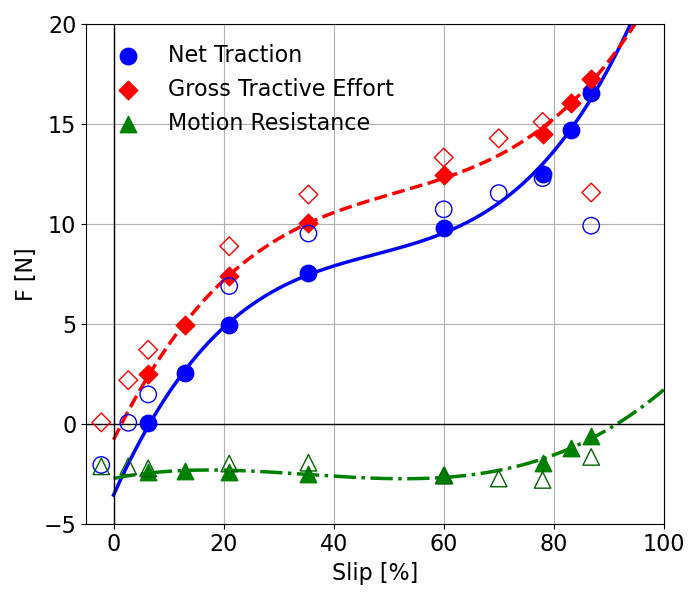
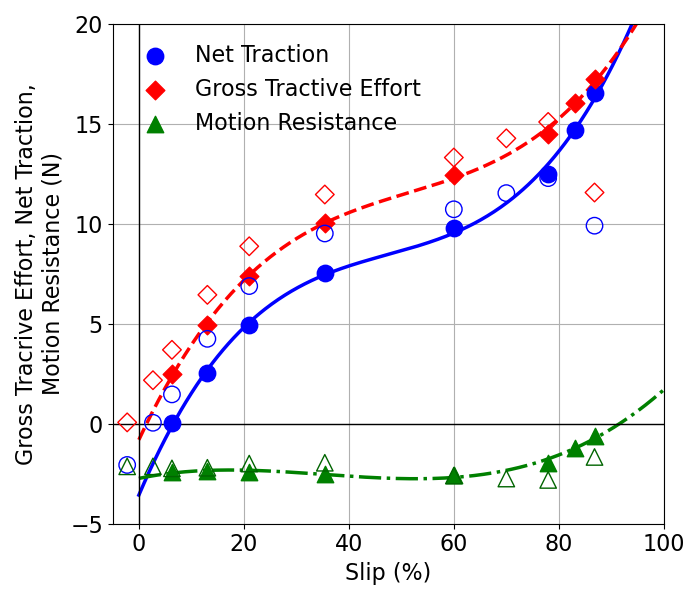
updated examples/Kyoto plot

diff --git a/examples/Kyoto/Fig9.py b/examples/Kyoto/Fig9.py
@@ -6,15 +6,15 @@ import matplotlib.pyplot as plt
 # Load data from text file
 # ------------------------
 # Header must be: x net gross res
-data = np.genfromtxt('fig9ref.txt', names=True)
-datj = np.genfromtxt('fig9here.txt', names=True)
+data = np.genfromtxt('Fig9ref.txt', names=True)
+datj = np.genfromtxt('Fig9here.txt', names=True)
 
-x = data['x']
+x = data['slip']
 y_net  = data['net']
 y_gross = data['gross']
 y_res = data['res']
 
-xj = datj['x']
+xj = datj['slip']
 yj_net  = datj['net']
 yj_gross = datj['gross']
 
@@ -63,8 +63,8 @@ plt.axhline(y=0, color='black', linestyle='-', linewidth=1.0)
 plt.axvline(x=0, color='black', linestyle='-', linewidth=1.0)
 
 # Axes formatting
-plt.xlabel('Slip [%]', fontsize=16)
-plt.ylabel('F [N]', fontsize=16)
+plt.xlabel('Slip (%)', fontsize=16)
+plt.ylabel('Gross Tractive Effort, Net Traction,\nMotion Resistance (N)', fontsize=16)
 plt.xlim(-5, 100)
 plt.ylim(-5, 20)
 plt.xticks([0, 20, 40, 60, 80, 100], fontsize=16)
@@ -74,5 +74,5 @@ plt.legend(loc='upper left', frameon=False, fontsize=16)
 plt.grid(True)
 
 plt.tight_layout()
-plt.savefig("fig9.png")
+plt.savefig("Fig9.png")
 plt.show()
